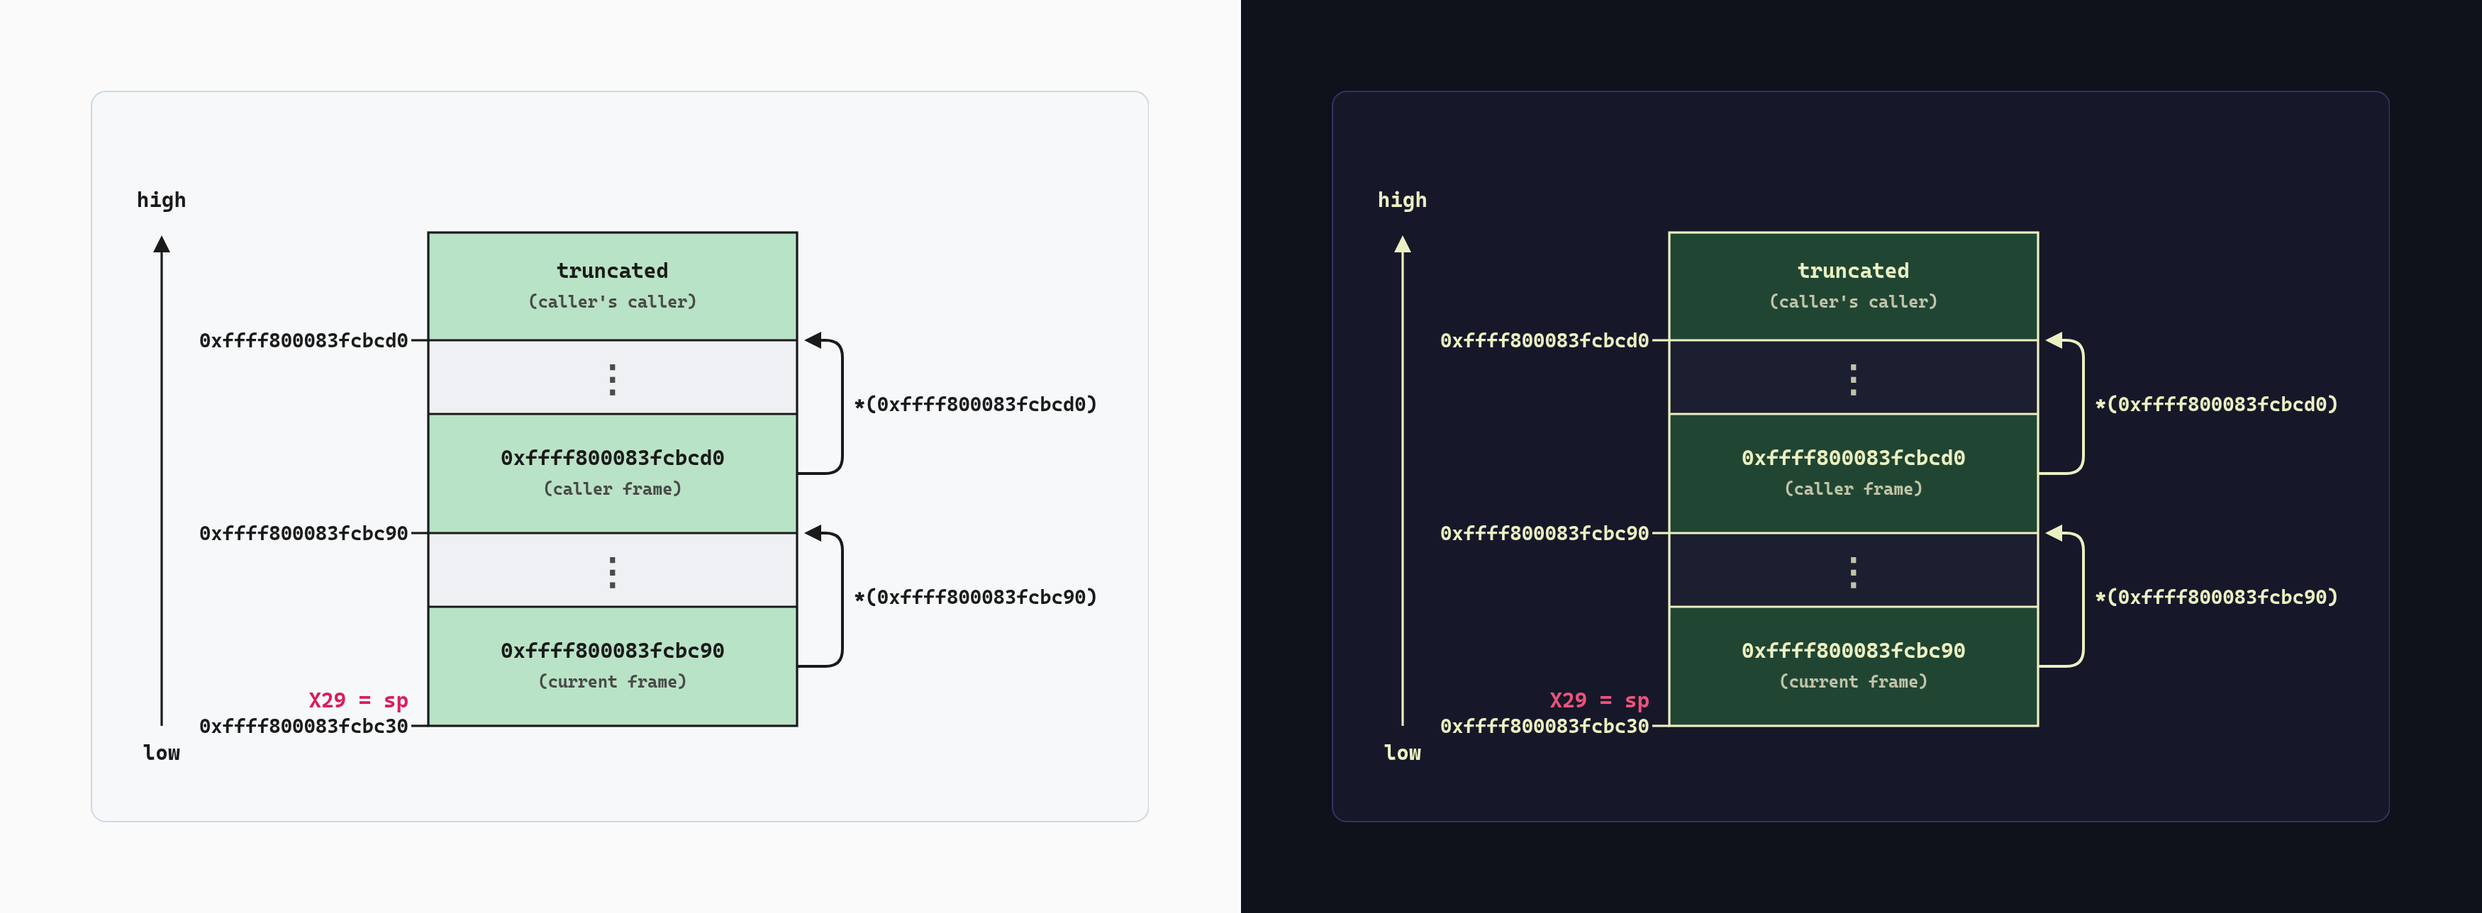
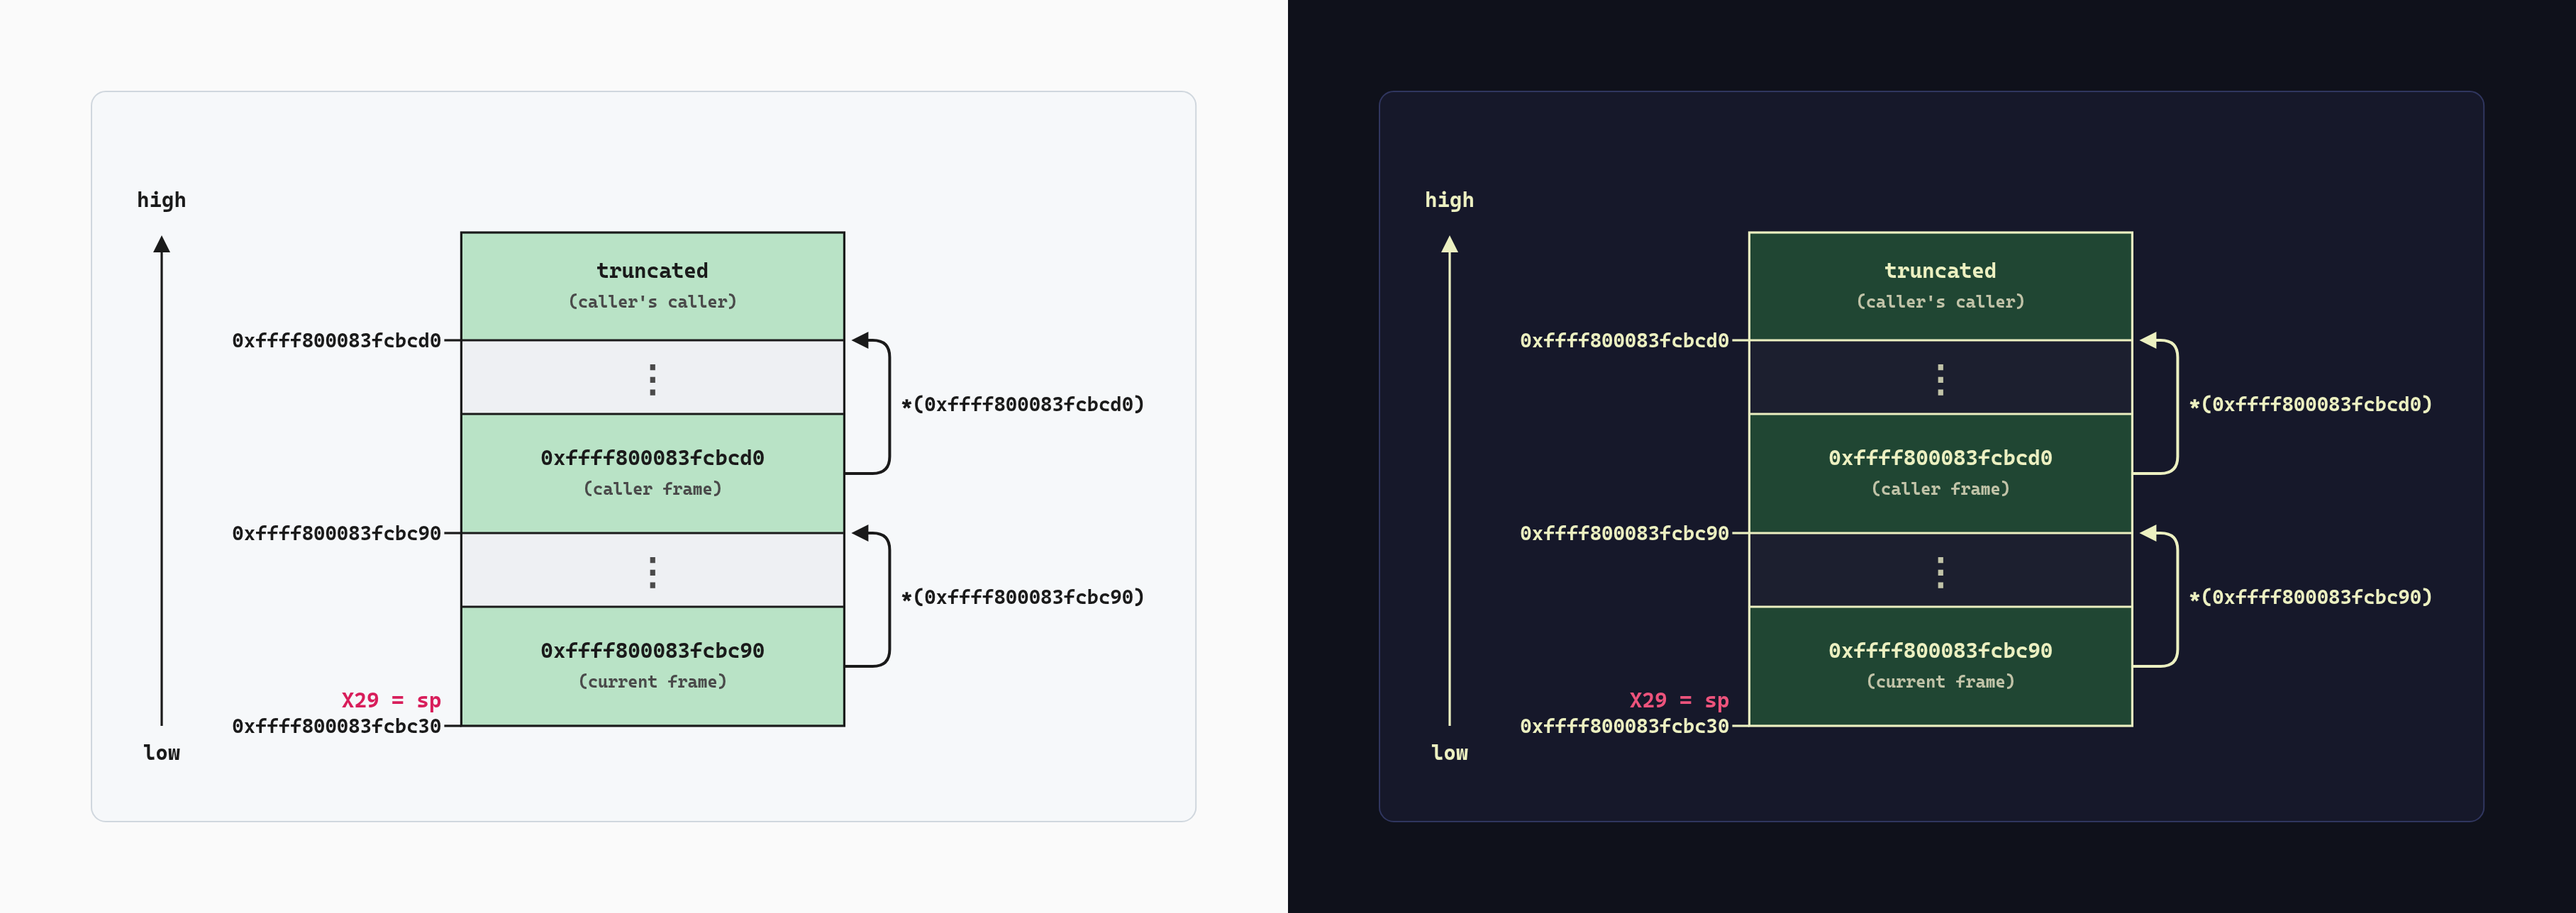
feat: widen memory columns and axis gaps to fit long labels

diff --git a/src/memory-layout.ts b/src/memory-layout.ts
@@ -53,7 +53,7 @@ export const PROFILES: Record<ProfileName, Profile> = {
 
 const WIDTH = 700, EDGE = 8, TOP = 76, AXIS = 32, LEFT = 220, RIGHT = 480, MID = 350, ADDR = 206;
 const RUN = 20, RADIUS = 12, LANE = 24, SIZE = 15, ARROW = 14, ADDRESS = 14;
-const INSIDE = RIGHT - LEFT - 32, OUTSIDE = ADDR - AXIS - 16, AXIS_GAP = 46;
+const INSIDE = RIGHT - LEFT - 32, OUTSIDE = ADDR - AXIS - 16, AXIS_GAP = 46, FILL = 0.6;
 const SPAN_X = RIGHT + 20, SPAN_BAR = 10, SPAN_BEND = 6, SPAN_LABEL = 14, SEAM = 0.5;
 const LABEL_GAP = 8;
 const TITLE_ROOM = 560, CODE_ROOM = WIDTH - 32, CODE_TOP = 64, CODE_STEP = 28;
@@ -188,10 +188,15 @@ export function layout(spec: MemoryLayout, profile: Profile = PROFILES.blog): Sc
   const bottom = y;
 
   const titleWidth = spec.title === undefined ? 0 : textWidth(pieces(spec.title, 'title', TITLE_ROOM).map((p) => p.text).join(''), SIZE);
+  const inside = Math.max(0, ...spec.regions.flatMap((r) => [
+    r.value === undefined ? 0 : textWidth(r.value, SIZE),
+    r.word === undefined ? 0 : textWidth(r.word, profile.wordSize),
+    r.sub === undefined ? 0 : textWidth(r.sub, profile.subSize),
+  ]));
+  const column = Math.floor(Math.min(LEFT, RIGHT - inside / FILL)), mid = (column + RIGHT) / 2, addr = column - (LEFT - ADDR);
   const widest = Math.max(0, ...spec.regions.flatMap((r) => [r.start === undefined ? 0 : textWidth(r.start, ADDRESS), r.marker === undefined ? 0 : textWidth(r.marker, SIZE)]));
-  const axis = Math.max(AXIS, round(ADDR - widest - AXIS_GAP));
-  const left = Math.min(axis - textWidth('high', SIZE) / 2, MID - titleWidth / 2);
-  const limit = left + WIDTH - 2 * EDGE;
+  const axis = round(addr - widest - AXIS_GAP);
+  const limit = Math.min(AXIS - textWidth('high', SIZE) / 2, MID - titleWidth / 2) + WIDTH - 2 * EDGE;
 
   const arrows: Arrow[] = [];
   rows.forEach((row, i) => {
@@ -268,35 +273,35 @@ export function layout(spec: MemoryLayout, profile: Profile = PROFILES.blog): Sc
     if (!moved) break;
   }
 
-  if (spec.title !== undefined) runs(MID, TOP - 24, pieces(spec.title, 'title', TITLE_ROOM));
+  if (spec.title !== undefined) runs(mid, TOP - 24, pieces(spec.title, 'title', TITLE_ROOM));
 
   text(axis, TOP - 18, 'high', SIZE, true, 'middle');
   line(axis, bottom, axis, TOP + 10);
   shapes.push(triangle(TOP + 2, axis, 'up', 'diagram-ink'));
   text(axis, round(bottom + 24), 'low', SIZE, true, 'middle');
 
-  for (const row of rows) shapes.push({ kind: 'rect', x: LEFT, y: row.top, w: RIGHT - LEFT, h: round(row.bottom - row.top), fill: row.region.gap ? 'diagram-gap' : 'diagram-area' });
-  shapes.push({ kind: 'outline', x: LEFT, y: TOP, w: RIGHT - LEFT, h: round(bottom - TOP), stroke: 'diagram-ink' });
-  for (const row of rows.slice(0, -1)) line(LEFT, row.bottom, RIGHT, row.bottom);
+  for (const row of rows) shapes.push({ kind: 'rect', x: column, y: row.top, w: RIGHT - column, h: round(row.bottom - row.top), fill: row.region.gap ? 'diagram-gap' : 'diagram-area' });
+  shapes.push({ kind: 'outline', x: column, y: TOP, w: RIGHT - column, h: round(bottom - TOP), stroke: 'diagram-ink' });
+  for (const row of rows.slice(0, -1)) line(column, row.bottom, RIGHT, row.bottom);
 
   for (const row of rows) {
     const { start, marker } = row.region;
     if (start === undefined) continue;
-    line(ADDR + 2, row.bottom, LEFT, row.bottom);
-    if (marker !== undefined) text(ADDR, round(row.bottom - 13), marker, SIZE, true, 'end', paint(row.region.tone, 'diagram-red'));
-    text(ADDR, round(row.bottom + 5), start, ADDRESS, false, 'end');
+    line(addr + 2, row.bottom, column, row.bottom);
+    if (marker !== undefined) text(addr, round(row.bottom - 13), marker, SIZE, true, 'end', paint(row.region.tone, 'diagram-red'));
+    text(addr, round(row.bottom + 5), start, ADDRESS, false, 'end');
   }
 
   for (const row of rows) {
     const { region, center } = row;
     if (region.gap) {
-      text(MID, round(center + 10), '⋮', 26, true, 'middle', 'text-secondary');
+      text(mid, round(center + 10), '⋮', 26, true, 'middle', 'text-secondary');
       continue;
     }
     const isValue = region.value !== undefined;
     const baseline = round(region.sub !== undefined ? center - 6 : center + 5);
-    text(MID, baseline, isValue ? region.value! : region.word!, isValue ? SIZE : profile.wordSize, true, 'middle');
-    if (region.sub !== undefined) text(MID, round(baseline + 21), region.sub, profile.subSize, false, 'middle', 'text-secondary');
+    text(mid, baseline, isValue ? region.value! : region.word!, isValue ? SIZE : profile.wordSize, true, 'middle');
+    if (region.sub !== undefined) text(mid, round(baseline + 21), region.sub, profile.subSize, false, 'middle', 'text-secondary');
   }
 
   const ticks = new Set(spans.filter((s) => s.span.shape !== 'bracket').flatMap((s) => [s.top, s.bottom]));
@@ -326,7 +331,7 @@ export function layout(spec: MemoryLayout, profile: Profile = PROFILES.blog): Sc
   }
 
   const code = (spec.code ?? []).map((list, i) => pieces(list, `code[${i}]`, CODE_ROOM));
-  code.forEach((list, i) => runs(MID, round(bottom + CODE_TOP + i * CODE_STEP), list));
+  code.forEach((list, i) => runs(mid, round(bottom + CODE_TOP + i * CODE_STEP), list));
   const height = code.length ? round(bottom + CODE_TOP + (code.length - 1) * CODE_STEP + 24) : round(bottom + 44);
   return tighten({ width: WIDTH, height, label: spec.label, font: FONT, shapes: [...brackets, ...dimensions, ...shapes], frame: profile.frame }, EDGE);
 }

diff --git a/test/dg.test.ts b/test/dg.test.ts
@@ -6,7 +6,7 @@ import * as memoryLayout from '../src/memory-layout.ts';
 import * as memoryTable from '../src/memory-table.ts';
 import { lintJoins } from '../src/joins.ts';
 import { lintMermaid } from '../src/mermaid.ts';
-import { corners, lintStatic, toStatic, toWeb, type Scene } from '../src/scene.ts';
+import { corners, lintStatic, round, textWidth, toStatic, toWeb, type Scene } from '../src/scene.ts';
 import * as structChain from '../src/struct-chain.ts';
 import { loadTokens, readBlogTokens } from '../src/tokens.ts';
 
@@ -114,8 +114,13 @@ test('a memory layout frames only what it draws', () => {
   assert.ok(spanned.width > bare.width);
   const axisOf = (scene: ReturnType<typeof memoryLayout.layout>) => scene.shapes.find((s) => s.kind === 'text' && s.text === 'high')!;
   const long = memoryLayout.layout({ label: 'x', regions: [{ word: 'a', start: '0xffff800083fcbc38' }, { word: 'b', start: '0xffff800083fcbc30' }] });
-  assert.equal((axisOf(long) as { x: number }).x, 32);
+  assert.equal((axisOf(long) as { x: number }).x, 8.8);
   assert.equal((axisOf(bare) as { x: number }).x, 126.4);
+  const column = (scene: ReturnType<typeof memoryLayout.layout>) => scene.shapes.find((s) => s.kind === 'outline') as { x: number; w: number };
+  assert.equal(column(bare).w, 260);
+  const padded = memoryLayout.layout({ label: 'x', regions: [{ word: '00 00 00 00 00 00 00', start: '0x8' }, { word: 'b', start: '0x0' }] });
+  assert.deepEqual([column(padded).x, column(padded).w], [180, 300]);
+  assert.equal((axisOf(padded) as { x: number }).x, round(166 - textWidth('0x8', 14) - 46));
 });
 
 test('the struct chain example renders the reference svg', () => {
